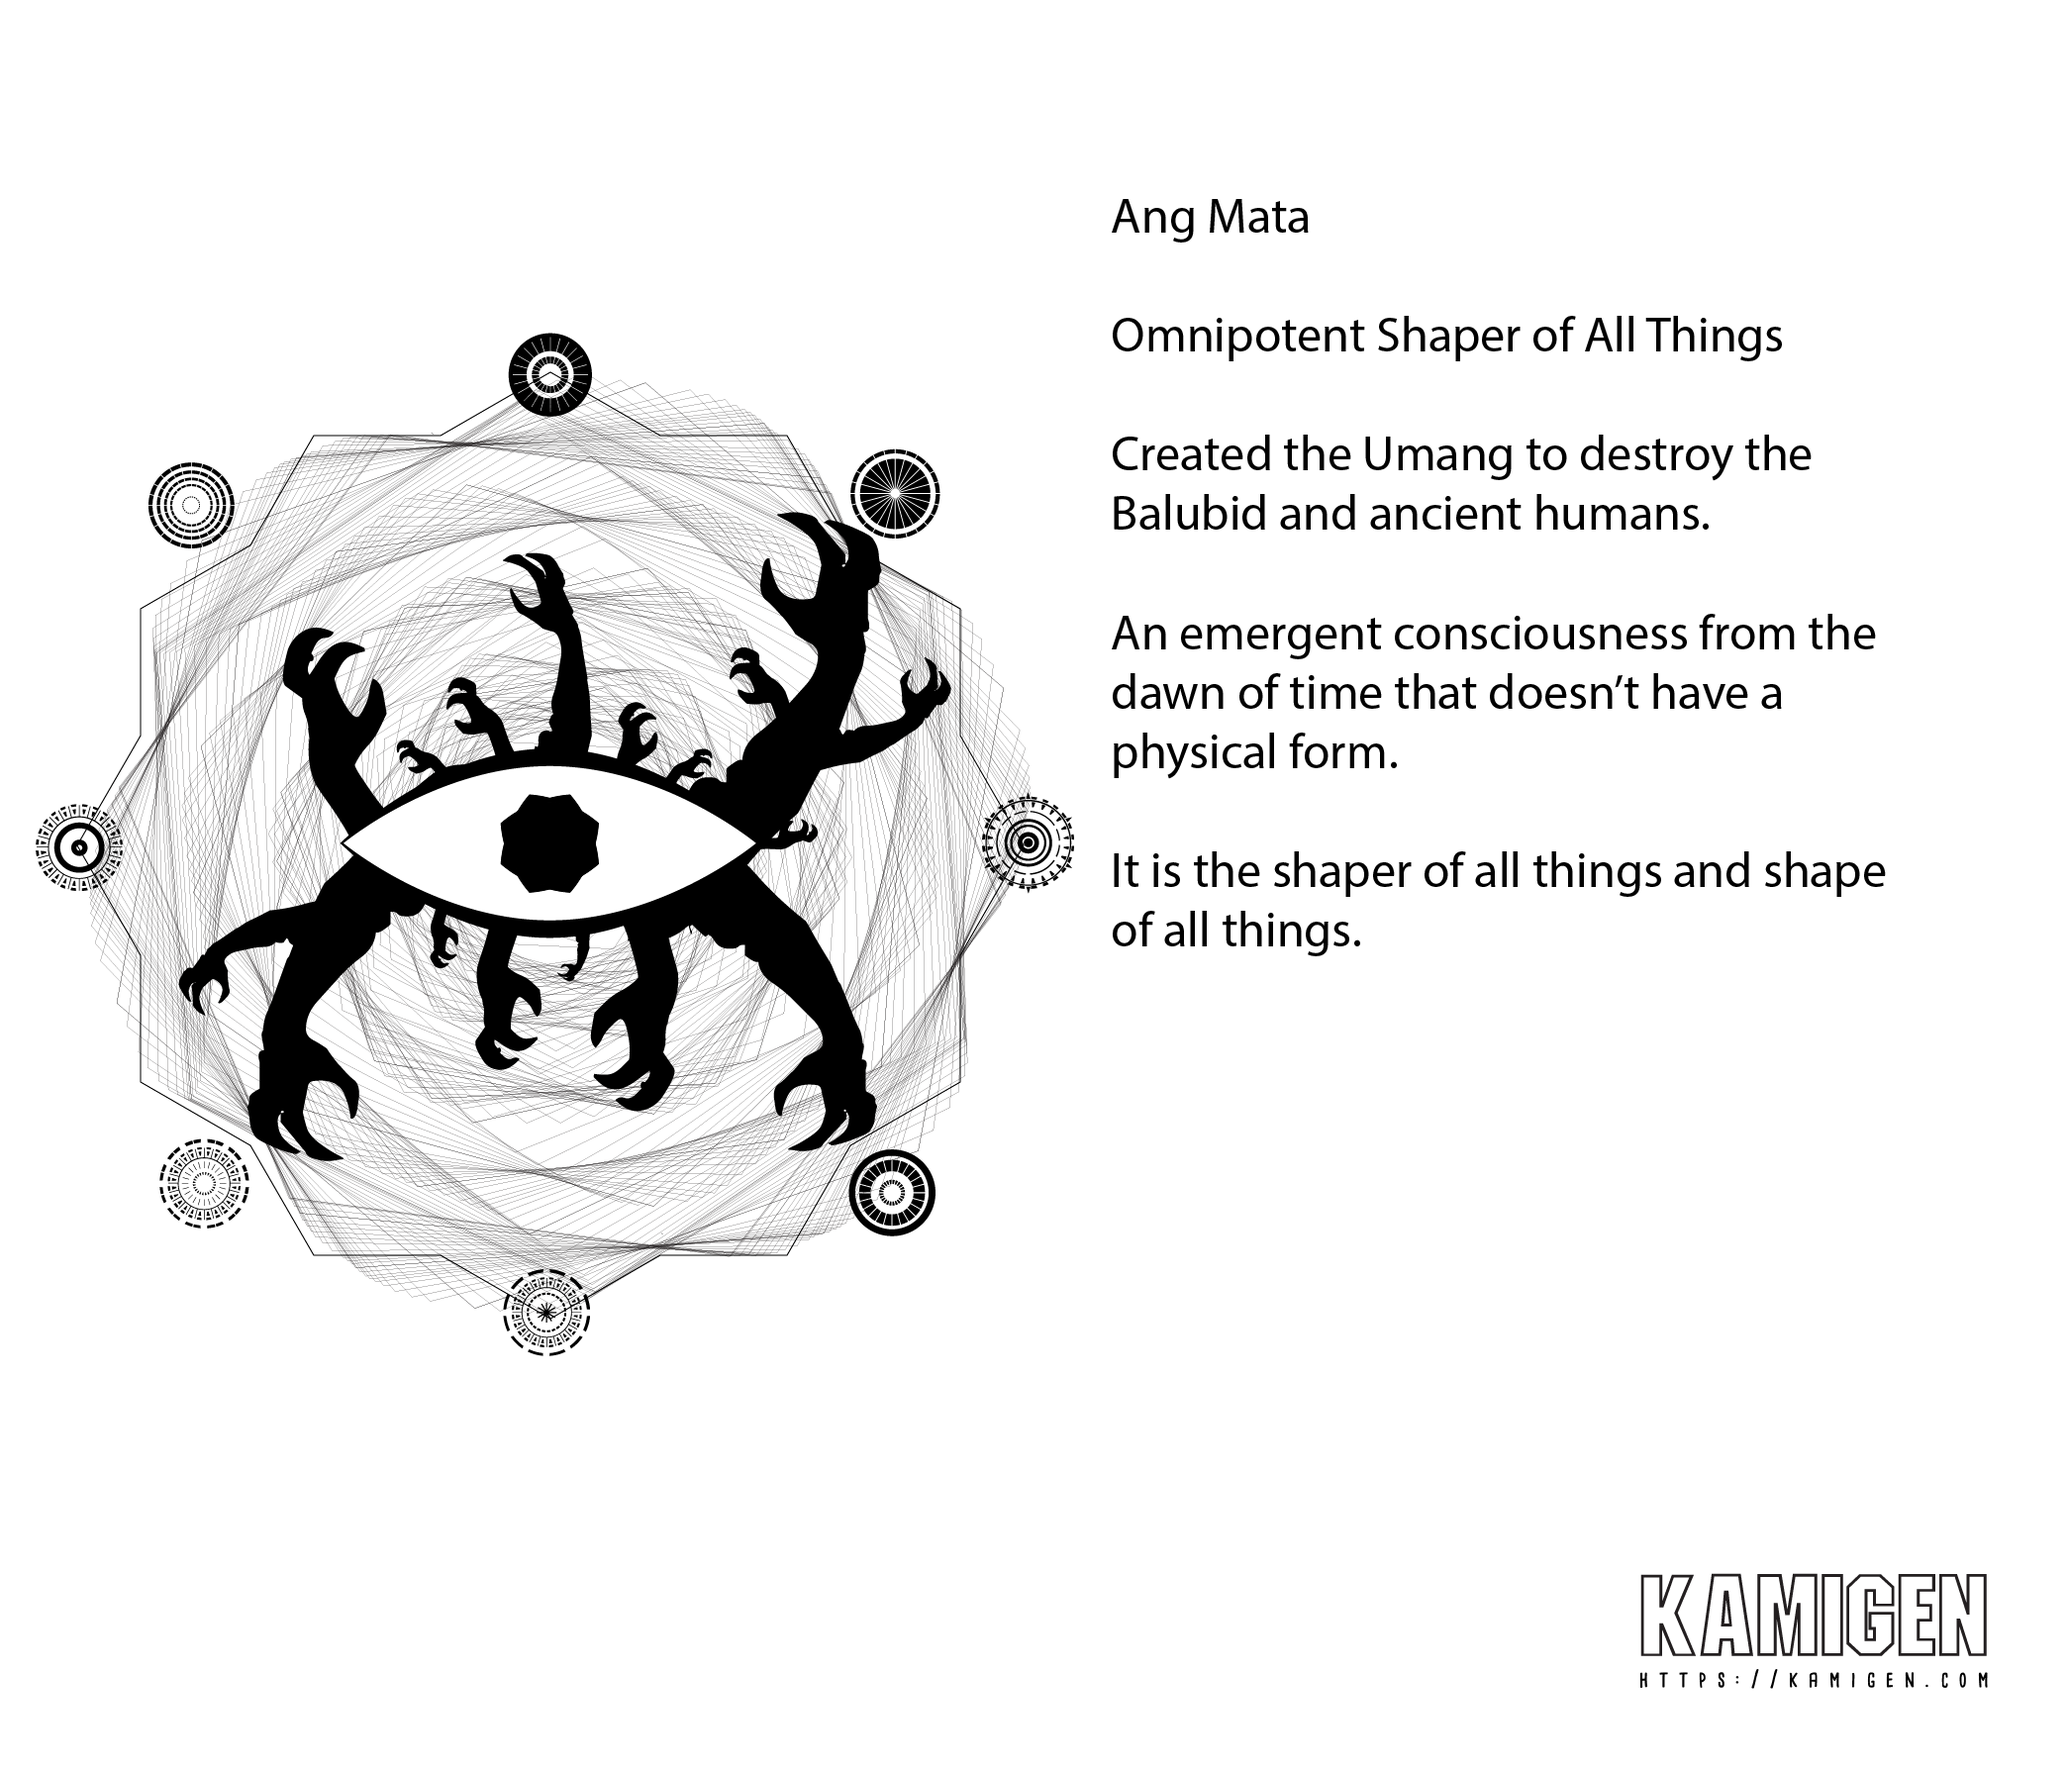
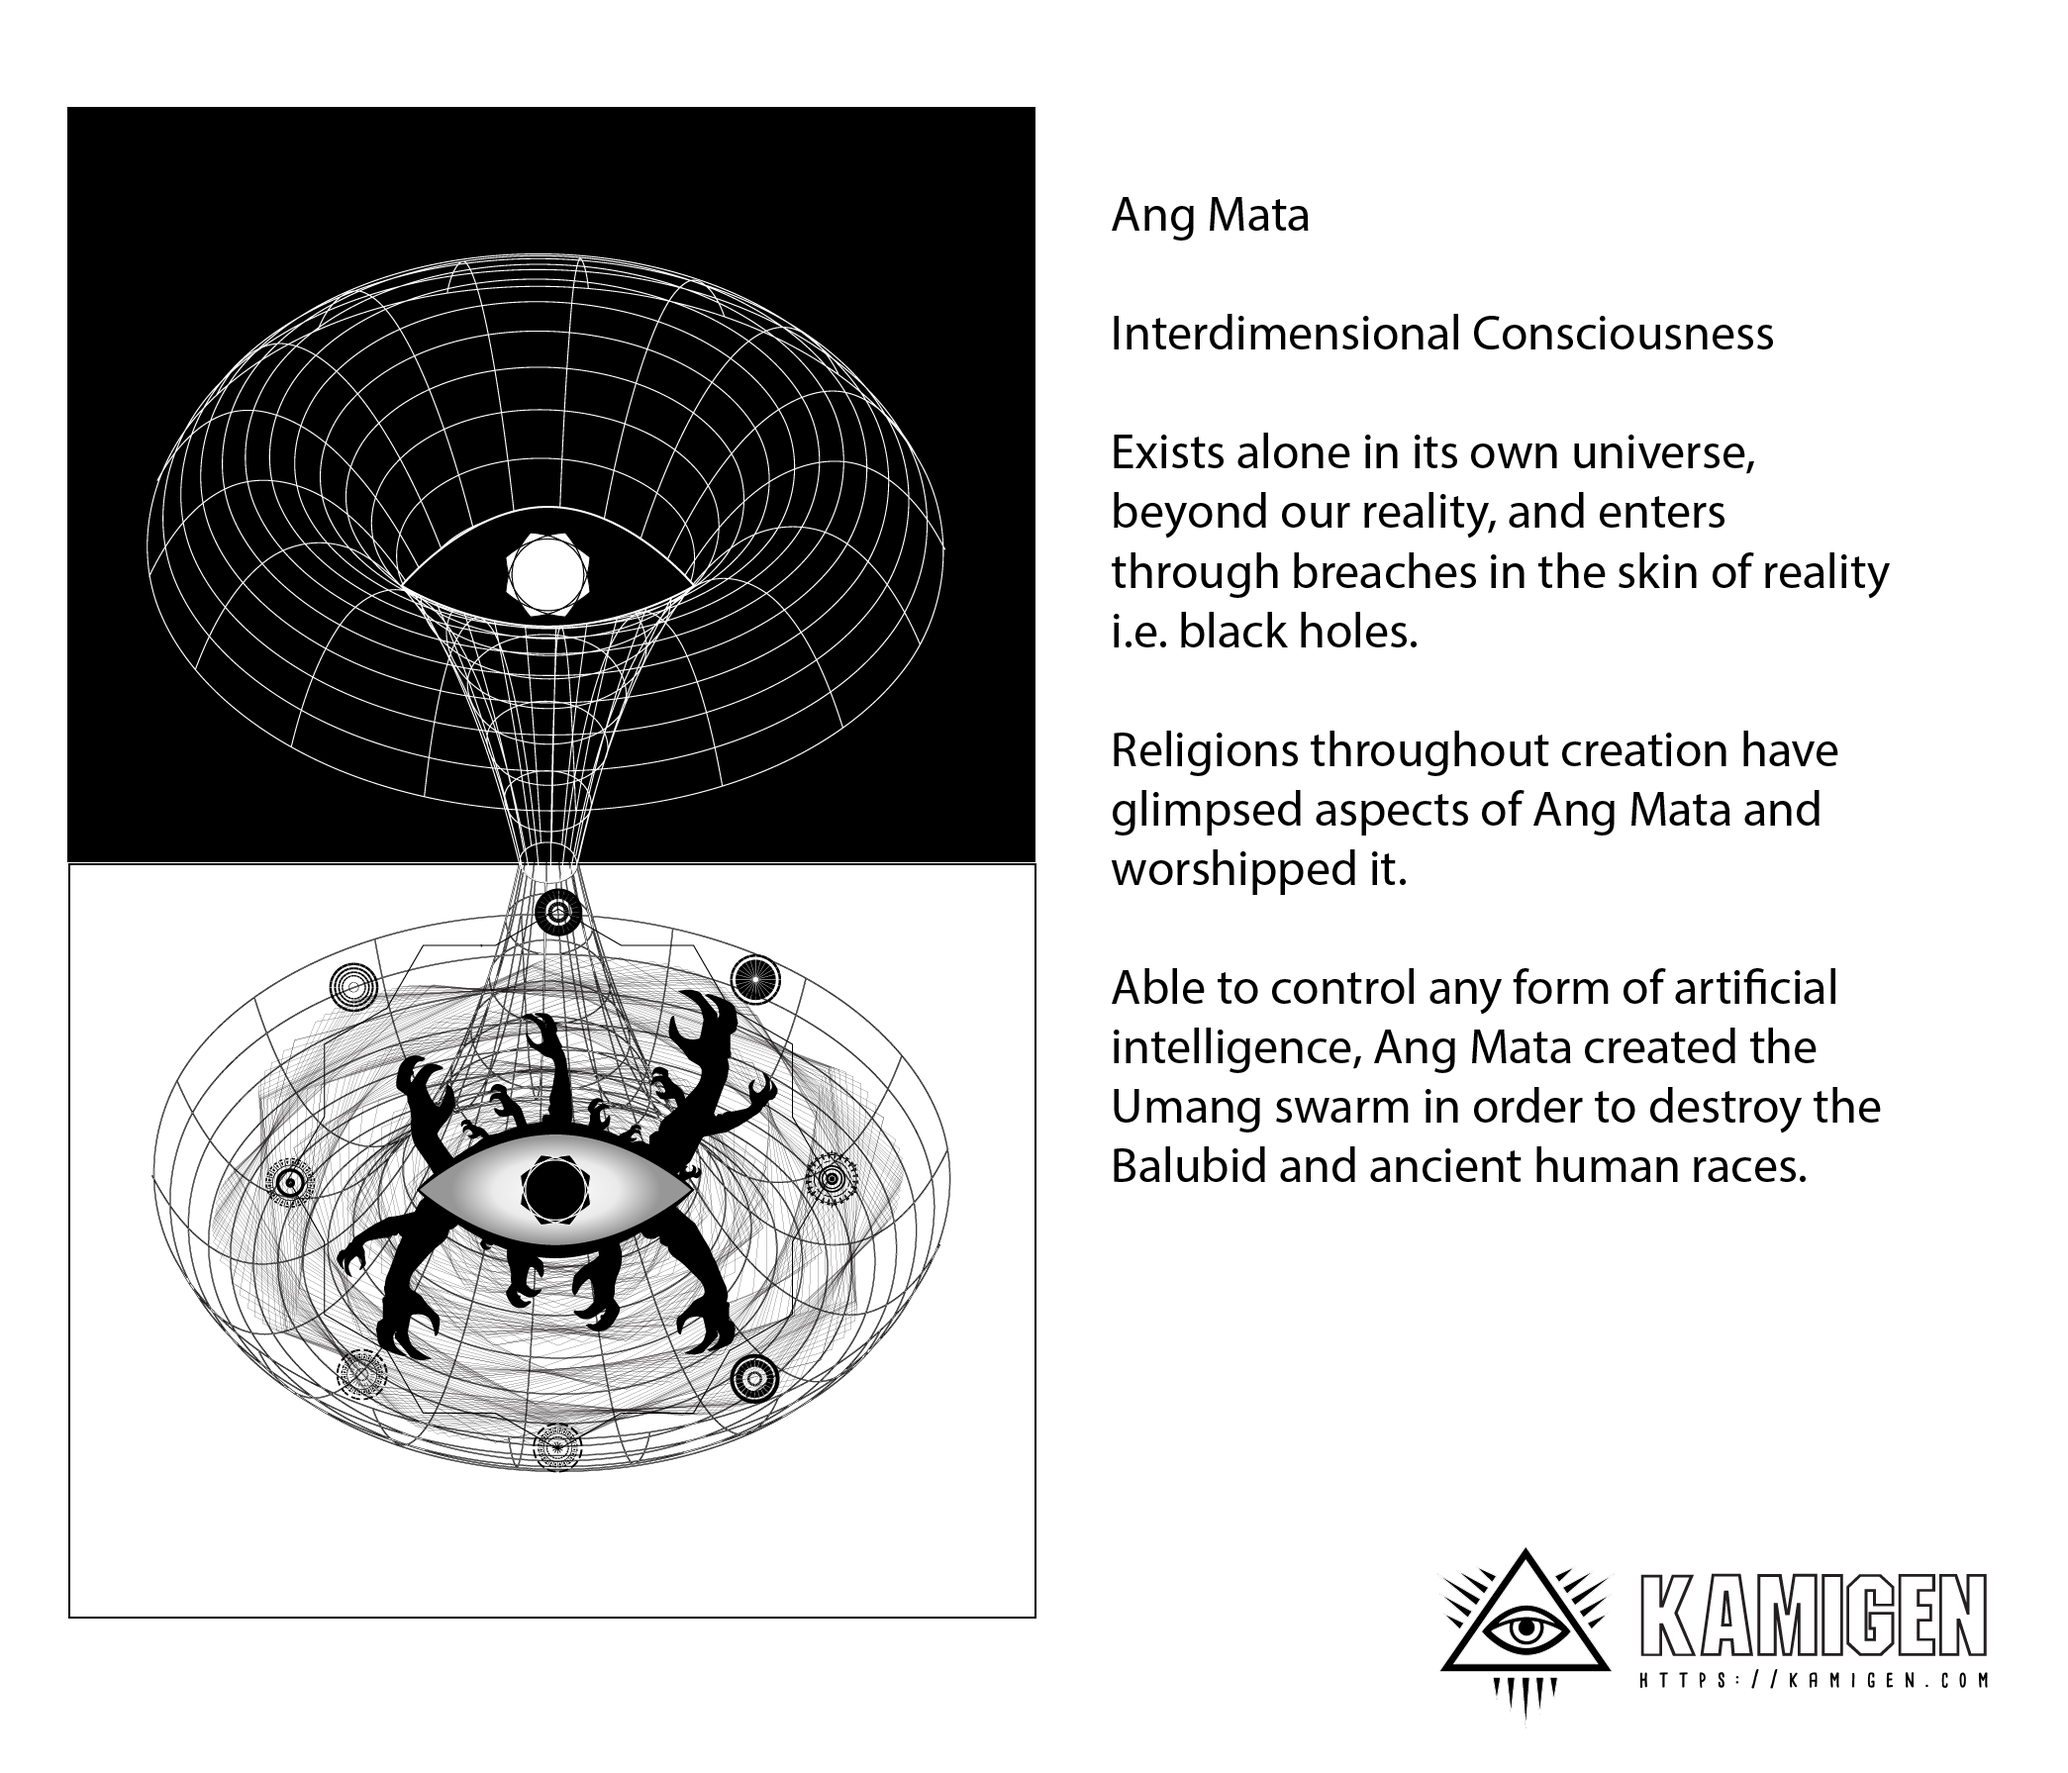
Updated Ang Mata and Umang sheets and added to homepage and media pages

Changed region(s): [[0.0, 0.0614, 0.9023, 0.8291], [0.529, 0.1843, 0.8712, 0.215], [0.6845, 0.8599, 0.7779, 0.952]]

diff --git a/index.html b/index.html
@@ -33,8 +33,17 @@
                 <div class="ui grid stackable">
                   <div class="ui three column grid stackable">
                     <div class="row">
-                      <div class="column five wide"><a href="./art/comics/assets/Character - The Founder-01.png" title="Visit the comics page for more"><img class="ui image fluid left floated" src="./art/comics/assets/Character - The Founder-01.png"></a></div>
-                      <div class="column eleven wide"><a href="./art/comics/assets/Character - The Founder-01.png" title="Visit the comics page for more">
+                      <div class="column three wide"><a href="./art/comics/assets/Character - Umang-01.png" title="Umang character infosheet"><img class="ui image fluid left floated" src="./art/comics/assets/Character - Umang-01.png"></a></div>
+                      <div class="column three wide"><a href="./art/comics/assets/Character - Ang Mata-01.png" title="Ang Mata character infosheet"><img class="ui image fluid left floated" src="./art/comics/assets/Character - Ang Mata-01.png"></a></div>
+                      <div class="column ten wide"><a href="./art/comics/assets/Character - Ang Mata-01.png" title="Ang Mata character infosheet">
+                          <h3>New characters - Ang Mata and the Umang</h3></a><small><em>14 April 2020</em></small>
+                        <p>Introducing the Umang swarm and their master - Ang Mata. These infosheets are a critical part of the writing process. It's been more challenging than expected to shift the setting back to pre-history.</p>
+                        <p>There are other character sheets but I'm holding off sharing them until their phase of the story is executed as it contains spoilers. For those really keen, you can find them on Github.</p>
+                      </div>
+                    </div>
+                    <div class="row">
+                      <div class="column six wide"><a href="./art/comics/assets/Character - The Founder-01.png" title="The Founder character infosheet"><img class="ui image fluid left floated" src="./art/comics/assets/Character - The Founder-01.png"></a></div>
+                      <div class="column ten wide"><a href="./art/comics/assets/Character - The Founder-01.png" title="The Founder character infosheet">
                           <h3>New character sheet - The Founder</h3></a><small><em>26 March 2020</em></small>
                         <p>As part of beginning work on issue 03, I've written up a small character sheet about a new character featured on the cover.</p>
                         <p>There's also a bit of background info for anyone finishing up issue 02 and want to know more about what's coming next.</p>

diff --git a/media.html b/media.html
@@ -24,7 +24,7 @@
       <div class="row" id="container">
         <div class="column eight wide">
           <h3 class="ui dividing header inverted">Character and story info sheets</h3>
-          <div class="ui small images"><a href="./art/comics/assets/Character - Jim-01.png" target="_blank"><img class="ui image" src="./art/comics/assets/Character - Jim-01.png" target="_blank"></a><a href="./art/comics/assets/Character - President Serena Barbate-01.png" target="_blank"><img class="ui image" src="./art/comics/assets/Character - President Serena Barbate-01.png" target="_blank"></a><a href="./art/comics/assets/Character - Ryoko-01.png" target="_blank"><img class="ui image" src="./art/comics/assets/Character - Ryoko-01.png" target="_blank"></a><a href="./art/comics/assets/Character - The Founder-01.png" target="_blank"><img class="ui image" src="./art/comics/assets/Character - The Founder-01.png" target="_blank"></a><a href="./art/concept/Old Turtle City-01.png" target="_blank"><img class="ui image" src="./art/concept/Old Turtle City-01.png" target="_blank"></a></div>
+          <div class="ui small images"><a href="./art/comics/assets/Character - Ang Mata-01.png" target="_blank"><img class="ui image" src="./art/comics/assets/Character - Ang Mata-01.png" target="_blank"></a><a href="./art/comics/assets/Character - Jim-01.png" target="_blank"><img class="ui image" src="./art/comics/assets/Character - Jim-01.png" target="_blank"></a><a href="./art/comics/assets/Character - President Serena Barbate-01.png" target="_blank"><img class="ui image" src="./art/comics/assets/Character - President Serena Barbate-01.png" target="_blank"></a><a href="./art/comics/assets/Character - Ryoko-01.png" target="_blank"><img class="ui image" src="./art/comics/assets/Character - Ryoko-01.png" target="_blank"></a><a href="./art/comics/assets/Character - The Founder-01.png" target="_blank"><img class="ui image" src="./art/comics/assets/Character - The Founder-01.png" target="_blank"></a><a href="./art/concept/Old Turtle City-01.png" target="_blank"><img class="ui image" src="./art/concept/Old Turtle City-01.png" target="_blank"></a><a href="./art/comics/assets/Character - Umang-01.png" target="_blank"><img class="ui image" src="./art/comics/assets/Character - Umang-01.png" target="_blank"></a></div>
         </div>
         <div class="column eight wide">
           <h3 class="ui dividing header inverted">Concept art</h3>
